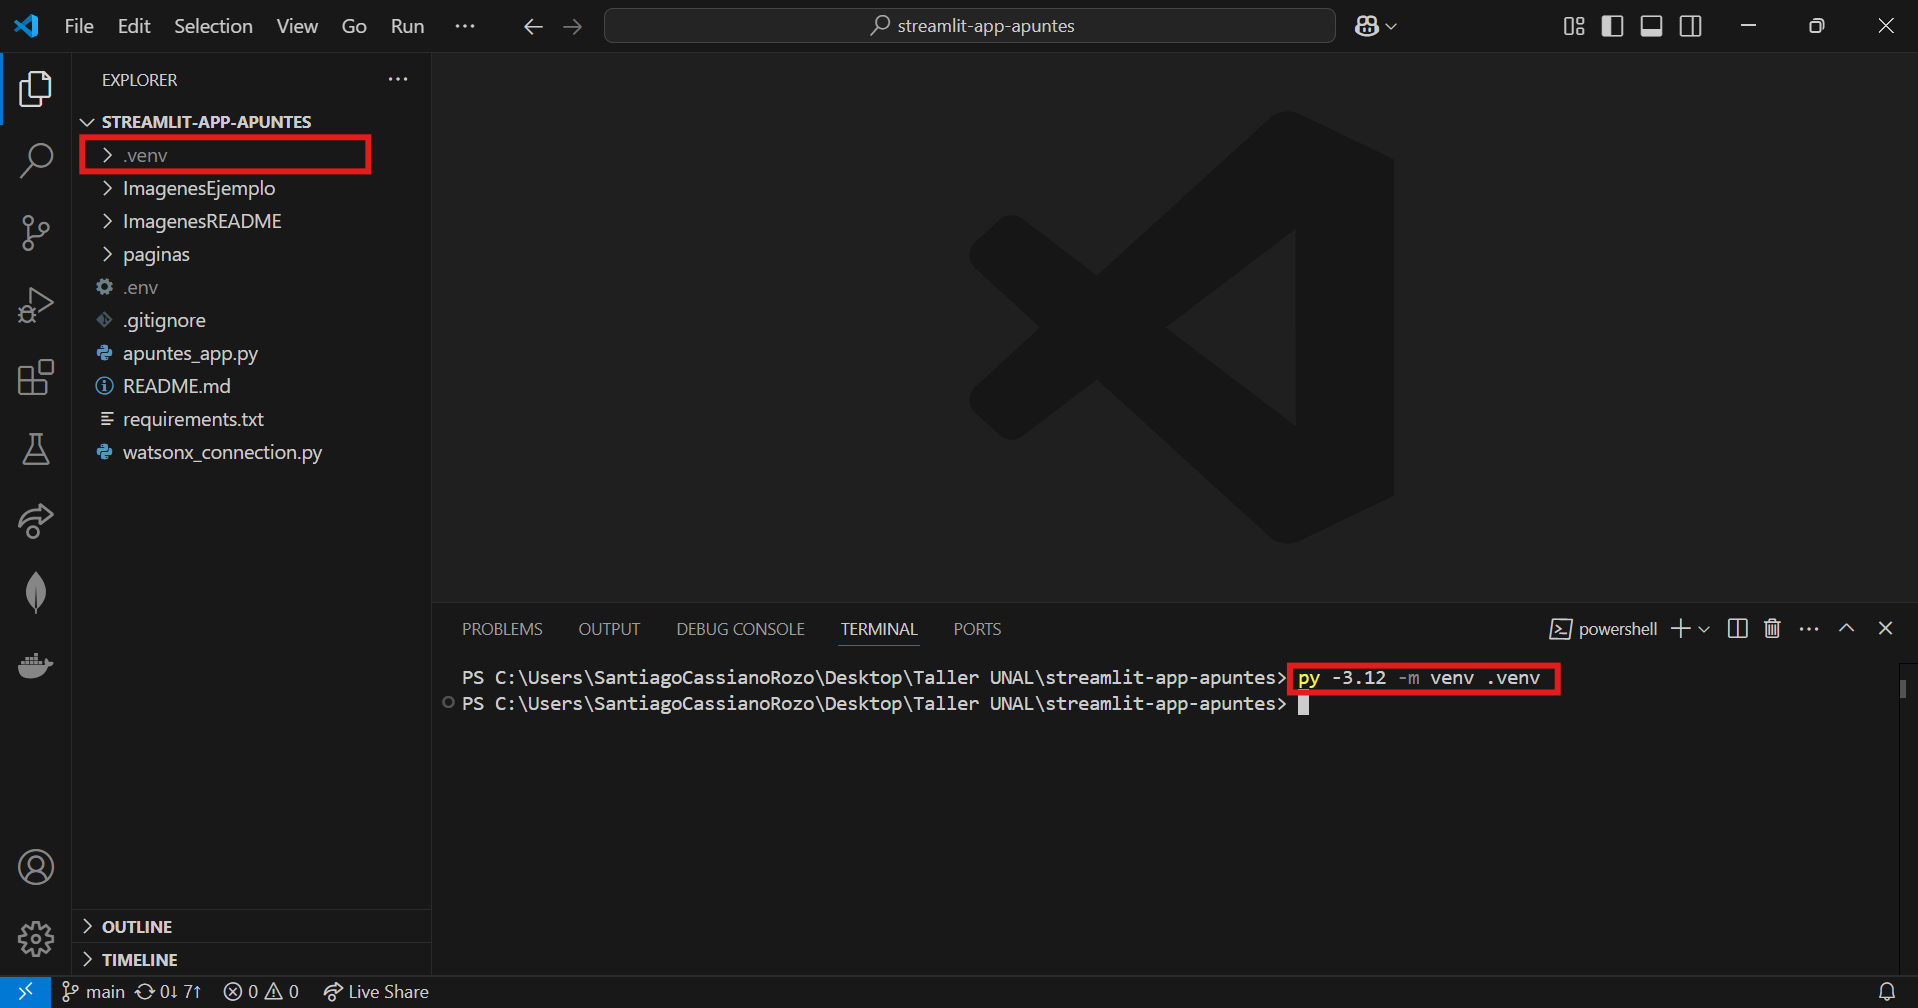
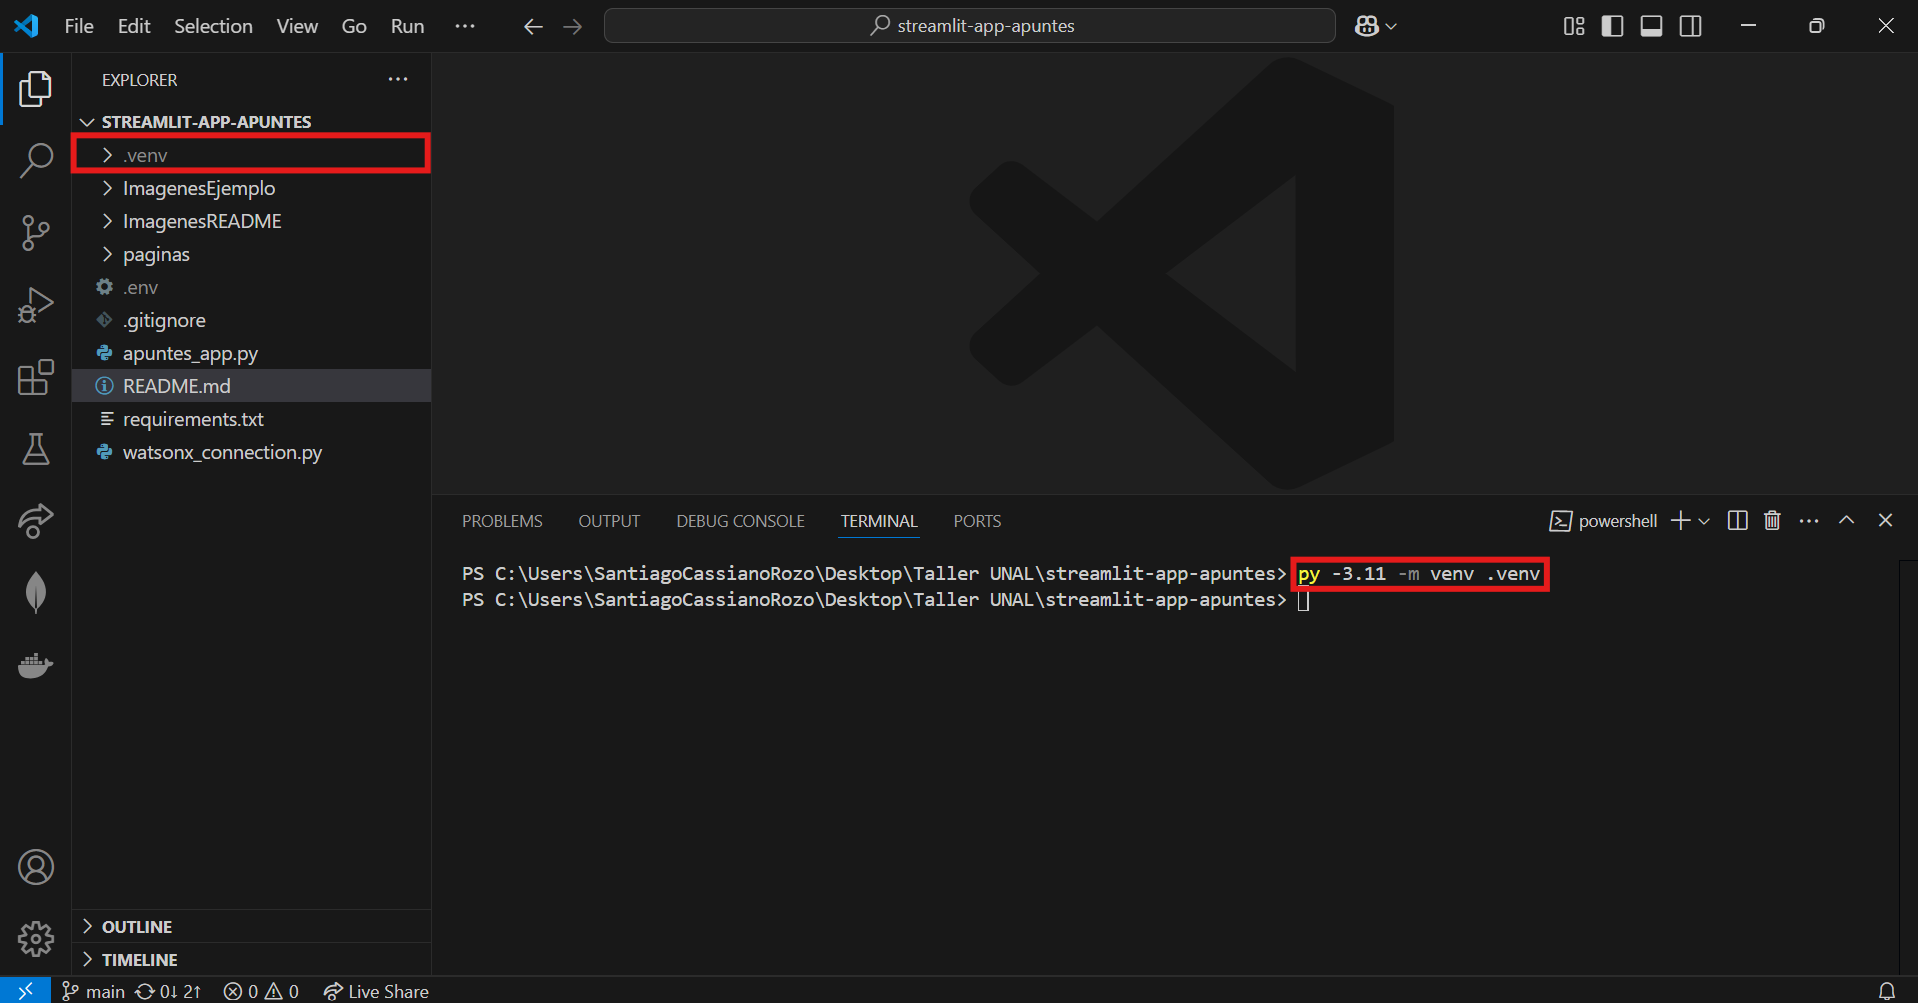
update :hammer: : Updated readme and iamges

diff --git a/README.md b/README.md
@@ -1,7 +1,7 @@
 # Guia para la ejecución local de Apuntes App
 
 ## Prerrequisitos:
-- Tener instalado Python. (**Python 3.11.9** es la version recomendada. las versiones 3.12 y 3.13 requieren adicionalmente descargar las Visual Studio Build Tools para pdoer ejecutar la app)
+- Tener instalado Python. (La versión recomendada es **Python 3.11.9**. Esto debido a que en las versiones 3.12 y 3.13 se requiere descargar las Visual Studio Build Tools para poder instalar las dependencias de la app)
 - (Opcional) Tener instalado Visual Studio Code.
 
 ## Paso 1: Clonar o descargar este repositorio en tu computadora.
@@ -84,7 +84,7 @@ Tras ejecutar el comando debio crearse la carpeta _.venv_ dentro del proyecto:
 
 ## Paso 5: Activar el entorno virtual en una consola:
 
-### Paso 5.1: Crear una terminal ubicada en la carpeta del proyecto:
+### Paso 5.1: Tener una terminal ubicada en la carpeta del proyecto:
 
 ![Imagen Terminal Inicio](./ImagenesREADME/ImagenTerminalInicio.png)
 
@@ -132,7 +132,7 @@ En la terminal empezarán a instalarse varios paquetes, puede que este proceso t
 Se debe ejecutar el siguiente comando en la terminal:
 
 ```console
-streamlit run app.py
+streamlit run app_apuntes.py
 ```
 
 Tras esto debe salir el siguiente mensaje en la terminal:
